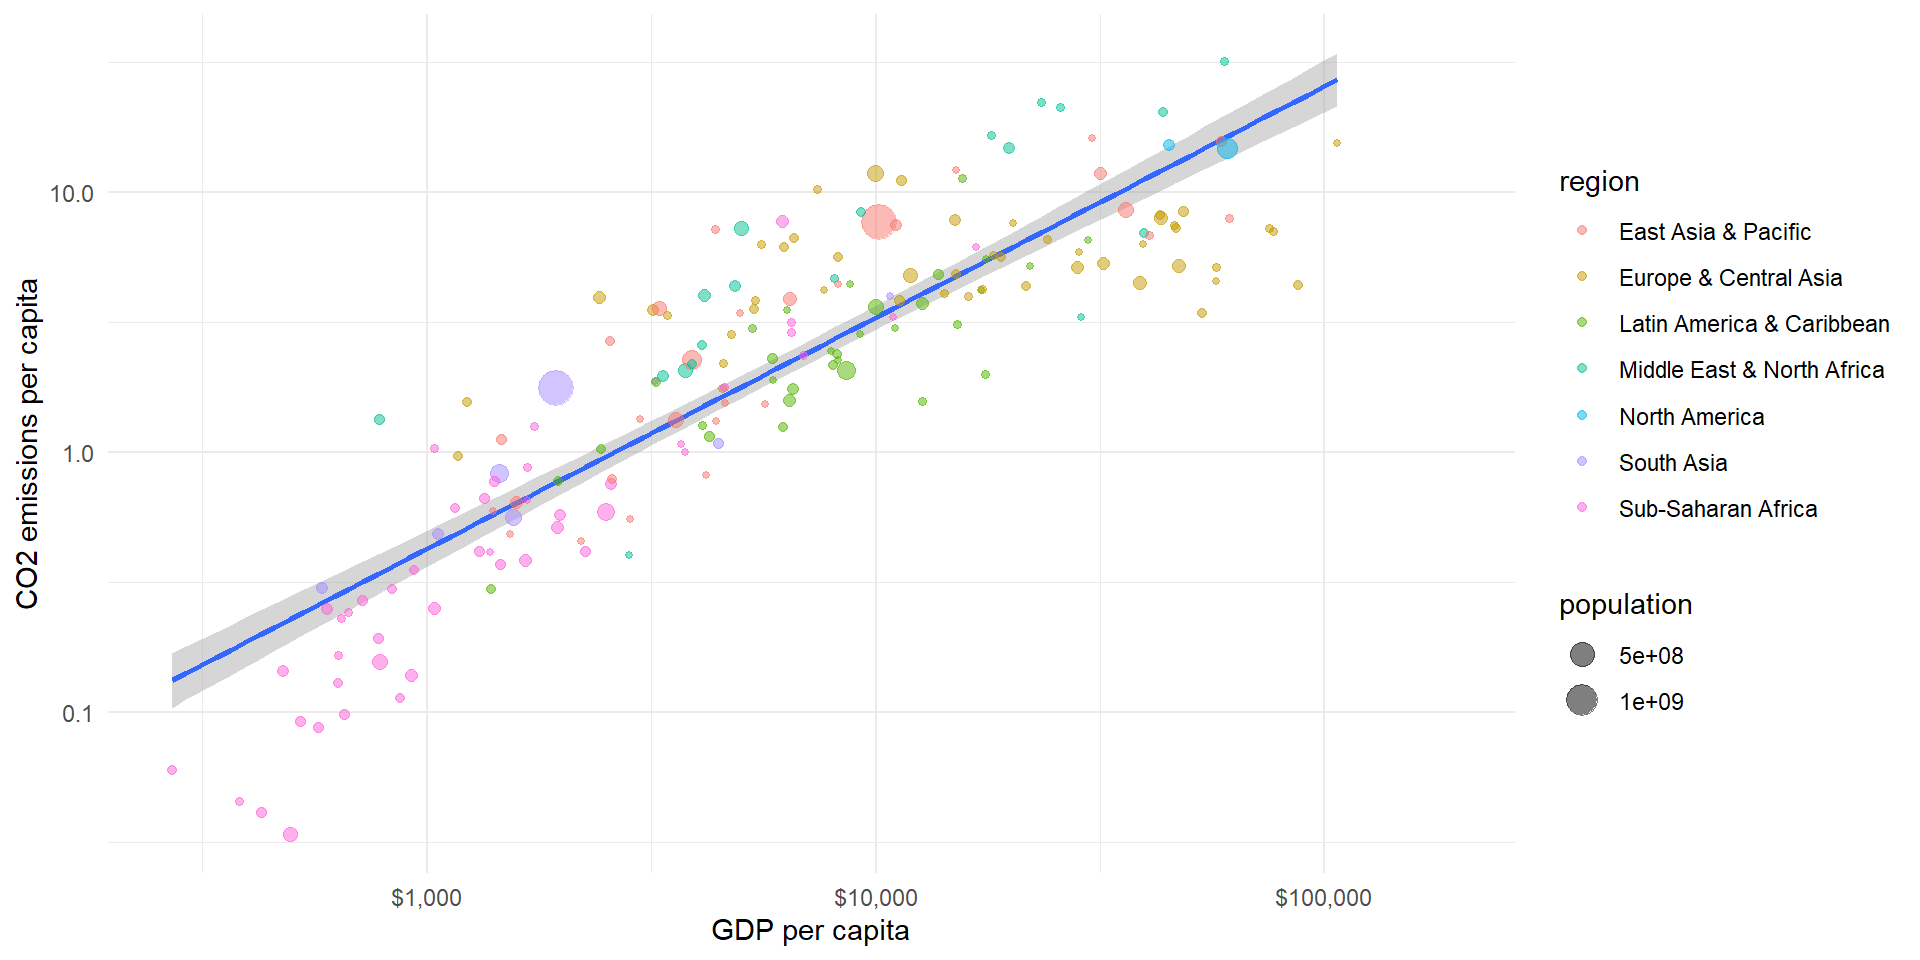
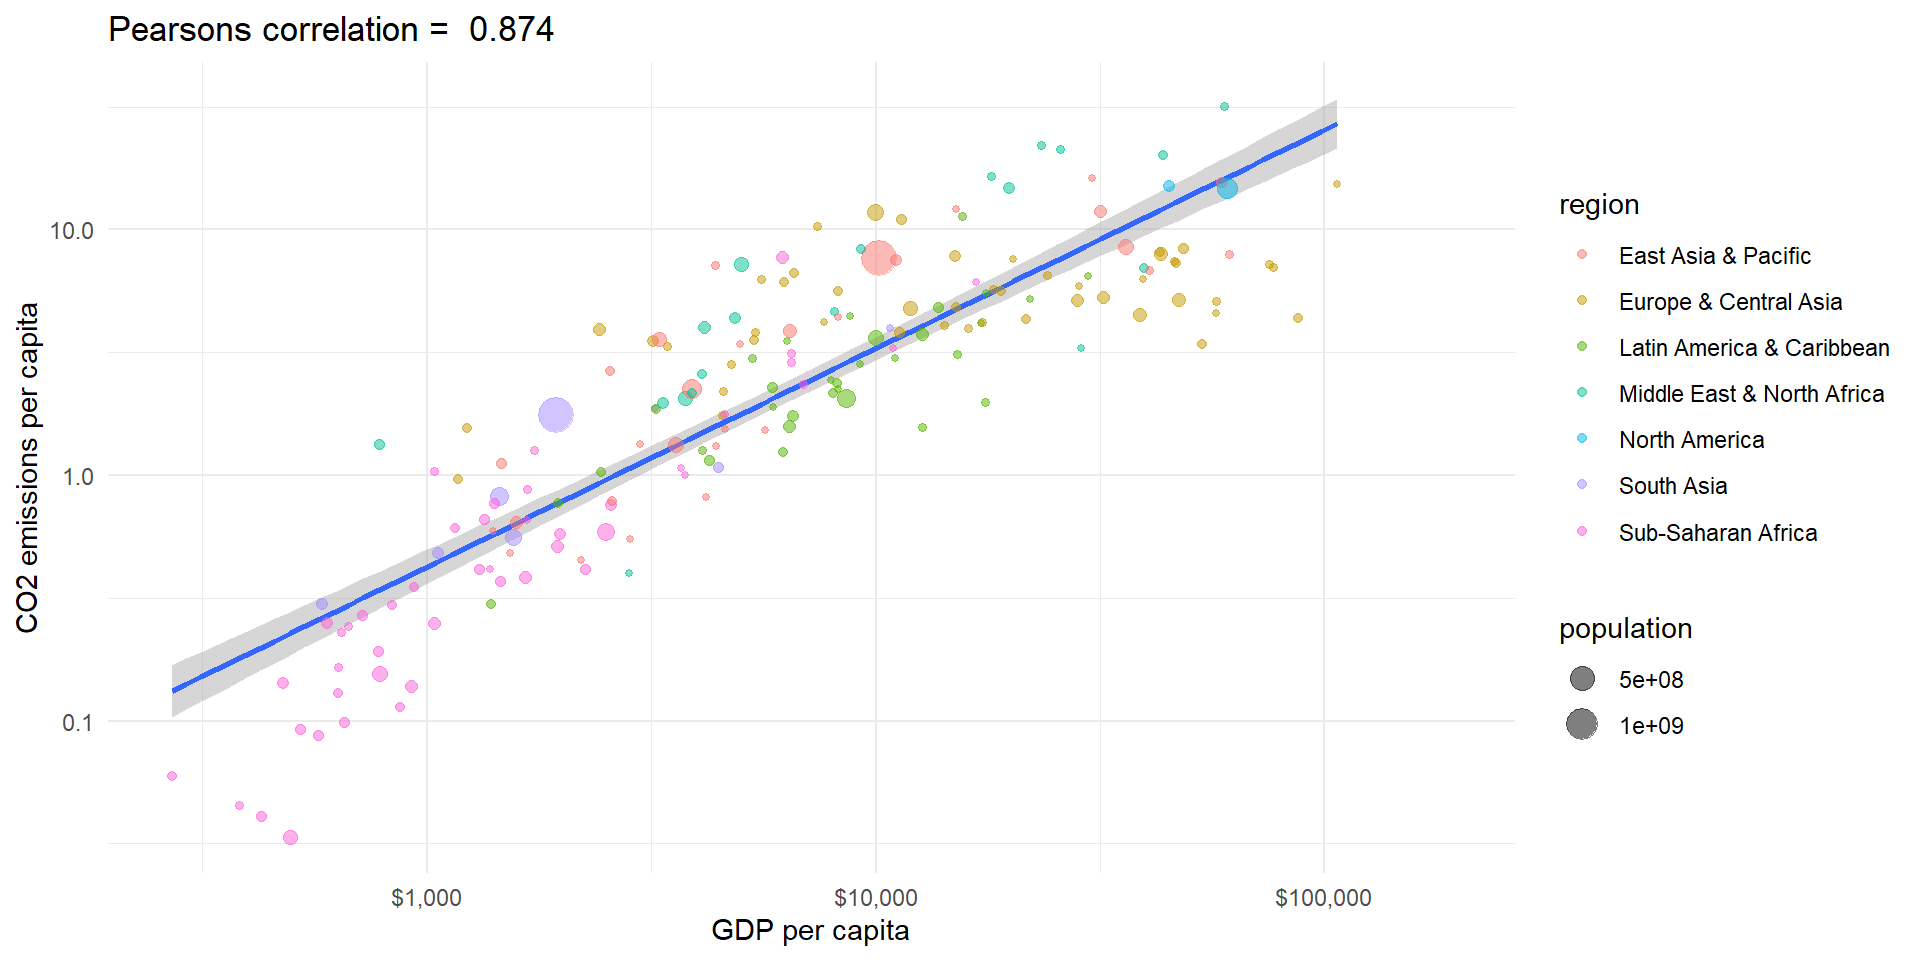
Update Example

diff --git a/docs/Bootcamp_slides.html b/docs/Bootcamp_slides.html
@@ -775,8 +775,8 @@ Rocio Mendez Pineda &amp; Tobias Rüttenauer
 
 </div>
 <img data-src="Bootcamp_slides_files/figure-revealjs/unnamed-chunk-1-1.png" width="960" class="r-stretch"></section>
-<section id="an-example-1" class="slide level2">
-<h2>An Example</h2>
+<section id="an-example-i" class="slide level2">
+<h2>An Example I</h2>
 <div class="cell">
 <details>
 <summary>Code</summary>
@@ -799,13 +799,46 @@ Rocio Mendez Pineda &amp; Tobias Rüttenauer
 <span id="cb10-17"><a href="#cb10-17"></a>  <span class="fu">geom_smooth</span>(<span class="fu">aes</span>(<span class="at">group =</span> <span class="dv">1</span>), <span class="at">method =</span> <span class="st">'lm'</span>, <span class="at">show.legend =</span> <span class="st">"none"</span>) <span class="sc">+</span> </span>
 <span id="cb10-18"><a href="#cb10-18"></a>  <span class="fu">geom_point</span>(<span class="at">alpha =</span> <span class="fl">0.5</span>) <span class="sc">+</span> </span>
 <span id="cb10-19"><a href="#cb10-19"></a>  <span class="fu">theme_minimal</span>() <span class="sc">+</span> <span class="fu">scale_y_log10</span>() <span class="sc">+</span>  <span class="fu">scale_x_log10</span>(<span class="at">labels =</span> scales<span class="sc">::</span><span class="fu">dollar_format</span>()) <span class="sc">+</span></span>
-<span id="cb10-20"><a href="#cb10-20"></a>  <span class="fu">labs</span>(<span class="at">y =</span> <span class="st">"CO2 emissions per capita"</span>, <span class="at">x =</span> <span class="st">"GDP per capita"</span>)</span>
-<span id="cb10-21"><a href="#cb10-21"></a></span>
-<span id="cb10-22"><a href="#cb10-22"></a>pl3</span></code><button title="Copy to Clipboard" class="code-copy-button"><i class="bi"></i></button></pre></div>
+<span id="cb10-20"><a href="#cb10-20"></a>  <span class="fu">labs</span>(<span class="at">y =</span> <span class="st">"CO2 emissions per capita"</span>, <span class="at">x =</span> <span class="st">"GDP per capita"</span>) <span class="sc">+</span></span>
+<span id="cb10-21"><a href="#cb10-21"></a>  <span class="fu">ggtitle</span>(<span class="fu">paste</span>(<span class="st">"Pearsons correlation = "</span>, <span class="fu">round</span>(cor, <span class="dv">3</span>)))</span>
+<span id="cb10-22"><a href="#cb10-22"></a></span>
+<span id="cb10-23"><a href="#cb10-23"></a>pl3</span></code><button title="Copy to Clipboard" class="code-copy-button"><i class="bi"></i></button></pre></div>
 </details>
 
 </div>
-<img data-src="Bootcamp_slides_files/figure-revealjs/unnamed-chunk-2-1.png" width="960" class="r-stretch"><div class="footer footer-default">
+<img data-src="Bootcamp_slides_files/figure-revealjs/unnamed-chunk-2-1.png" width="960" class="r-stretch"></section>
+<section id="an-example-ii" class="slide level2">
+<h2>An Example II</h2>
+<div class="cell">
+<details>
+<summary>Code</summary>
+<div class="sourceCode cell-code" id="cb11"><pre class="sourceCode numberSource r number-lines code-with-copy"><code class="sourceCode r"><span id="cb11-1"><a href="#cb11-1"></a><span class="co"># use log transformed variables</span></span>
+<span id="cb11-2"><a href="#cb11-2"></a>wd.df<span class="sc">$</span>ln_population <span class="ot">&lt;-</span> <span class="fu">log</span>(wd.df<span class="sc">$</span>population)</span>
+<span id="cb11-3"><a href="#cb11-3"></a>wd.df<span class="sc">$</span>ln_co2_pc <span class="ot">&lt;-</span> <span class="fu">log</span>(wd.df<span class="sc">$</span>co2_pc)</span>
+<span id="cb11-4"><a href="#cb11-4"></a></span>
+<span id="cb11-5"><a href="#cb11-5"></a><span class="co"># calculate covariance</span></span>
+<span id="cb11-6"><a href="#cb11-6"></a>cov <span class="ot">&lt;-</span> <span class="fu">cov</span>(wd.df<span class="sc">$</span>ln_population, wd.df<span class="sc">$</span>ln_co2_pc, <span class="at">use =</span> <span class="st">"complete.obs"</span>)</span>
+<span id="cb11-7"><a href="#cb11-7"></a></span>
+<span id="cb11-8"><a href="#cb11-8"></a><span class="co"># sd</span></span>
+<span id="cb11-9"><a href="#cb11-9"></a>sd_gdp <span class="ot">&lt;-</span> <span class="fu">sd</span>(wd.df<span class="sc">$</span>ln_population, <span class="at">na.rm =</span> <span class="cn">TRUE</span>)</span>
+<span id="cb11-10"><a href="#cb11-10"></a>sd_co2 <span class="ot">&lt;-</span> <span class="fu">sd</span>(wd.df<span class="sc">$</span>ln_co2_pc, <span class="at">na.rm =</span> <span class="cn">TRUE</span>)</span>
+<span id="cb11-11"><a href="#cb11-11"></a></span>
+<span id="cb11-12"><a href="#cb11-12"></a><span class="co"># correlation</span></span>
+<span id="cb11-13"><a href="#cb11-13"></a>cor <span class="ot">&lt;-</span> <span class="fu">cor</span>(wd.df<span class="sc">$</span>ln_population, wd.df<span class="sc">$</span>ln_co2_pc, <span class="at">use =</span> <span class="st">"complete.obs"</span>)</span>
+<span id="cb11-14"><a href="#cb11-14"></a></span>
+<span id="cb11-15"><a href="#cb11-15"></a><span class="co"># Plot with linear line</span></span>
+<span id="cb11-16"><a href="#cb11-16"></a>pl3 <span class="ot">&lt;-</span> <span class="fu">ggplot</span>(wd.df, <span class="fu">aes</span>(<span class="at">x =</span> population, <span class="at">y =</span> co2_pc, <span class="at">size =</span> population, <span class="at">color =</span> region)) <span class="sc">+</span></span>
+<span id="cb11-17"><a href="#cb11-17"></a>  <span class="fu">geom_smooth</span>(<span class="fu">aes</span>(<span class="at">group =</span> <span class="dv">1</span>), <span class="at">method =</span> <span class="st">'lm'</span>, <span class="at">show.legend =</span> <span class="st">"none"</span>) <span class="sc">+</span> </span>
+<span id="cb11-18"><a href="#cb11-18"></a>  <span class="fu">geom_point</span>(<span class="at">alpha =</span> <span class="fl">0.5</span>) <span class="sc">+</span> </span>
+<span id="cb11-19"><a href="#cb11-19"></a>  <span class="fu">theme_minimal</span>() <span class="sc">+</span> <span class="fu">scale_y_log10</span>() <span class="sc">+</span>  <span class="fu">scale_x_log10</span>(<span class="at">labels =</span> scales<span class="sc">::</span><span class="fu">dollar_format</span>()) <span class="sc">+</span></span>
+<span id="cb11-20"><a href="#cb11-20"></a>  <span class="fu">labs</span>(<span class="at">y =</span> <span class="st">"CO2 emissions per capita"</span>, <span class="at">x =</span> <span class="st">"Population"</span>) <span class="sc">+</span></span>
+<span id="cb11-21"><a href="#cb11-21"></a>  <span class="fu">ggtitle</span>(<span class="fu">paste</span>(<span class="st">"Pearsons correlation = "</span>, <span class="fu">round</span>(cor, <span class="dv">3</span>)))</span>
+<span id="cb11-22"><a href="#cb11-22"></a></span>
+<span id="cb11-23"><a href="#cb11-23"></a>pl3</span></code><button title="Copy to Clipboard" class="code-copy-button"><i class="bi"></i></button></pre></div>
+</details>
+
+</div>
+<img data-src="Bootcamp_slides_files/figure-revealjs/unnamed-chunk-3-1.png" width="960" class="r-stretch"><div class="footer footer-default">
 
 </div>
 </section></section>

diff --git a/README.md b/README.md
@@ -6,6 +6,6 @@ This is a short-course on Quantitative Methods
 
 ## Materials
 
-to be hosted on a server
+Please see [html slides here](https://ruettenauer.github.io/Bootcamp/Bootcamp_slides.html)
 
 ---
